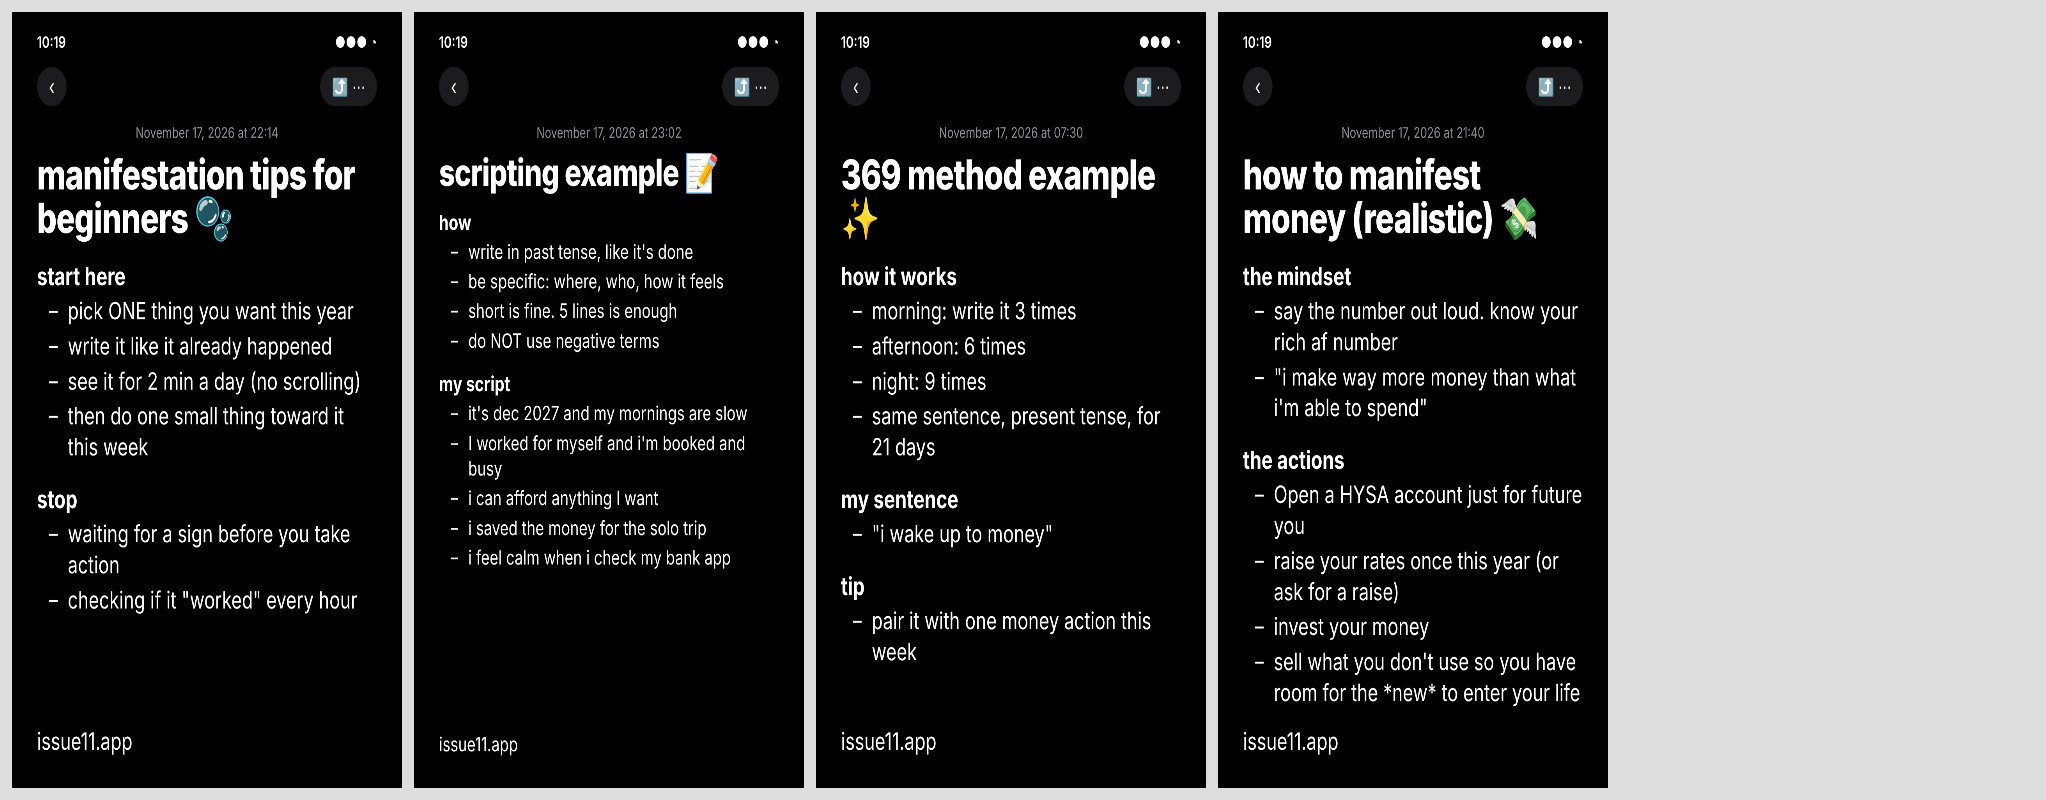
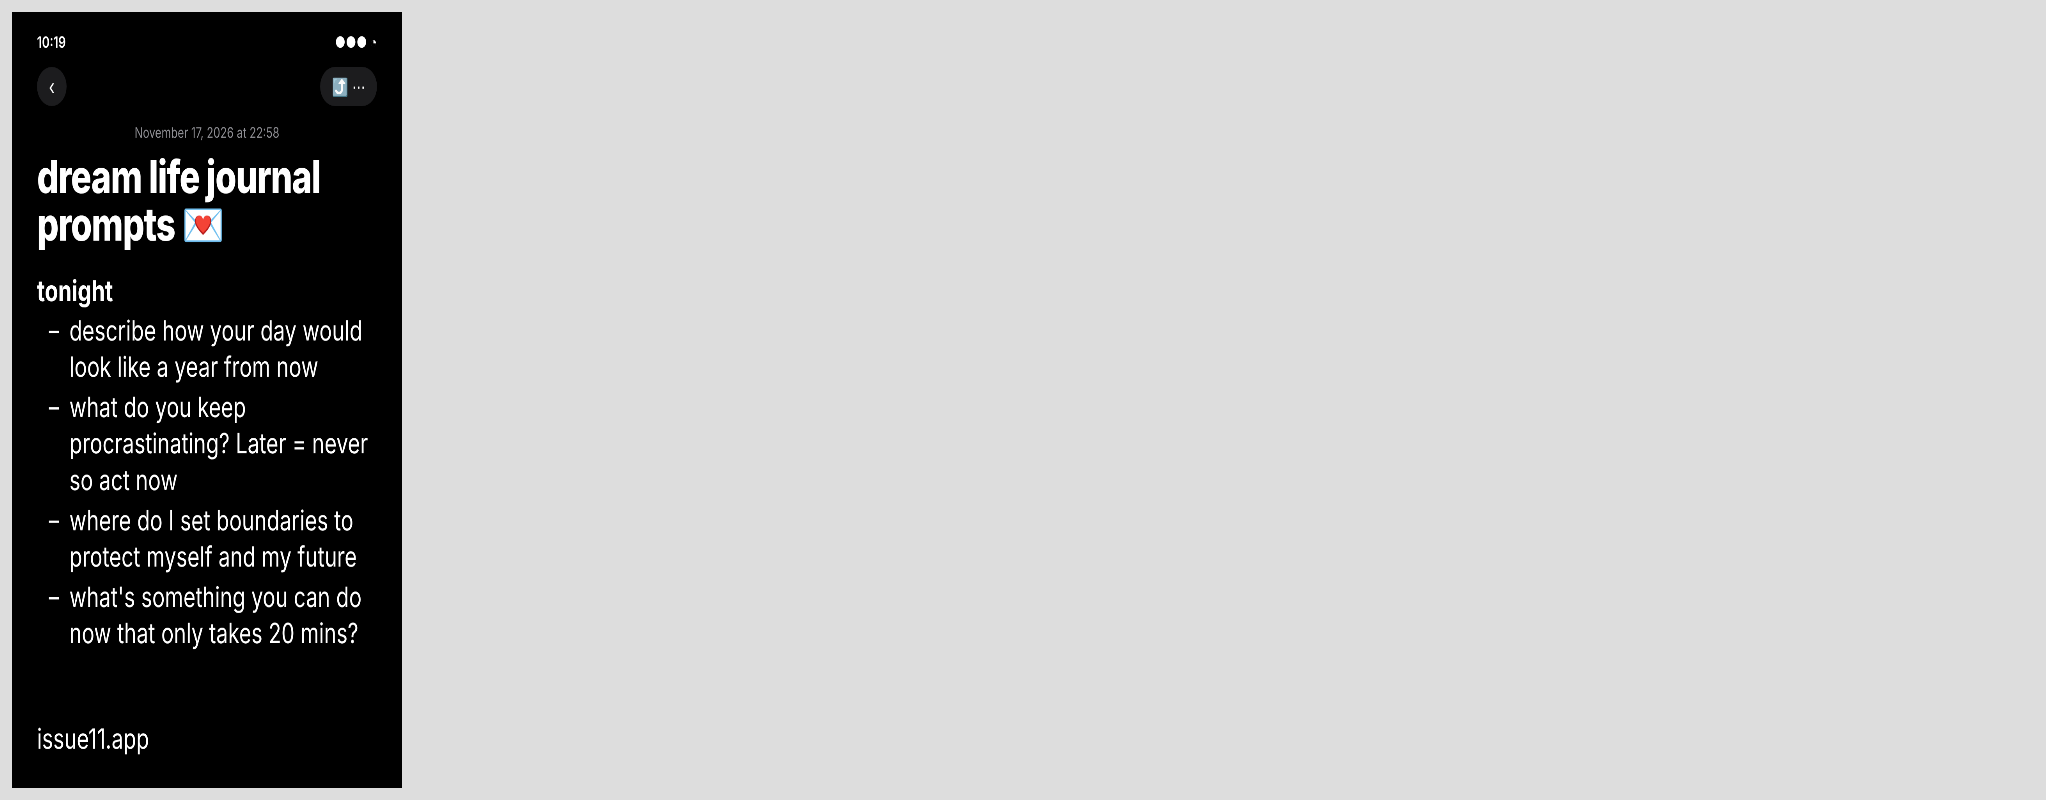
Phone notes 215: Megan's prompts
Claude-Session: https://claude.ai/code/session_01YGtmQppBCBt9nypMHzxSp1

diff --git a/drafts/pinterest/color-test/CT215.dc.html b/drafts/pinterest/color-test/CT215.dc.html
@@ -18,7 +18,7 @@
   <p style="margin:34px 0 0; text-align:center; font-size:28px; color:#8e8e93">November 17, 2026 at 22:58</p>
   <h1 style="margin:22px 0 0; font-size:88px; font-weight:800; letter-spacing:-0.02em; line-height:1.05">dream life journal prompts 💌</h1>
   
-  <p style="margin:48px 0 6px; font-weight:700; font-size:56px">tonight</p><div style="padding-left:30px; font-size:54px; line-height:1.3"><div style="display:flex; gap:26px; margin:8px 0"><span>–</span><span>describe an ordinary tuesday a year from now</span></div><div style="display:flex; gap:26px; margin:8px 0"><span>–</span><span>which "one day" have you been saying for too long?</span></div><div style="display:flex; gap:26px; margin:8px 0"><span>–</span><span>what would you stop saying yes to?</span></div><div style="display:flex; gap:26px; margin:8px 0"><span>–</span><span>what's one move you could make in 20 minutes?</span></div></div>
+  <p style="margin:48px 0 6px; font-weight:700; font-size:56px">tonight</p><div style="padding-left:30px; font-size:54px; line-height:1.3"><div style="display:flex; gap:26px; margin:8px 0"><span>–</span><span>describe how your day would look like a year from now</span></div><div style="display:flex; gap:26px; margin:8px 0"><span>–</span><span>what do you keep procrastinating? Later = never so act now</span></div><div style="display:flex; gap:26px; margin:8px 0"><span>–</span><span>where do I set boundaries to protect myself and my future</span></div><div style="display:flex; gap:26px; margin:8px 0"><span>–</span><span>what's something you can do now that only takes 20 mins?</span></div></div>
 <p style="position:absolute; left:64px; bottom:60px; margin:0; font-size:54px; line-height:1.3">issue11.app</p></div>
 </div>
 </x-dc>

diff --git a/drafts/pinterest/color-test/gen23.py b/drafts/pinterest/color-test/gen23.py
@@ -7,7 +7,7 @@ P={
 'CT212':("Scripting manifestation example · Notes",notes("November 17, 2026 at 23:02","scripting example 📝",[("how",["write in past tense, like it's done","be specific: where, who, how it feels","short is fine. 5 lines is enough","do NOT use negative terms"]),("my script",["it's dec 2027 and my mornings are slow","I worked for myself and i'm booked and busy","i can afford anything I want","i saved the money for the solo trip","i feel calm when i check my bank app"])],"Scripting manifestation template · free")),
 'CT213':("369 method example · Notes",notes("November 17, 2026 at 07:30","369 method example ✨",[("how it works",["morning: write it 3 times","afternoon: 6 times","night: 9 times","same sentence, present tense, for 21 days"]),("my sentence",["\"i wake up to money\""]),("tip",["pair it with one money action this week"])],"369 method template · free")),
 'CT214':("How to manifest money · Notes",notes("November 17, 2026 at 21:40","how to manifest money (realistic) 💸",[("the mindset",["say the number out loud. know your rich af number","\"i make way more money than what i'm able to spend\""]),("the actions",["Open a HYSA account just for future you","raise your rates once this year (or ask for a raise)","invest your money","sell what you don't use so you have room for the *new* to enter your life"])],"Money affirmations + money moves · free")),
-'CT215':("Journal prompts for manifesting your dream life · Notes",notes("November 17, 2026 at 22:58","dream life journal prompts 💌",[("tonight",["describe an ordinary tuesday a year from now","which \"one day\" have you been saying for too long?","what would you stop saying yes to?","what's one move you could make in 20 minutes?"])],"Dream life journal prompts · free")),
+'CT215':("Journal prompts for manifesting your dream life · Notes",notes("November 17, 2026 at 22:58","dream life journal prompts 💌",[("tonight",["describe how your day would look like a year from now","what do you keep procrastinating? Later = never so act now","where do I set boundaries to protect myself and my future","what's something you can do now that only takes 20 mins?"])],"Dream life journal prompts · free")),
 }
 # Megan, Nov 17: "let's remove the white footer at the bottom. and maybe promote the website while keeping the same writing style (as if it was part of the notes)"
 import re
